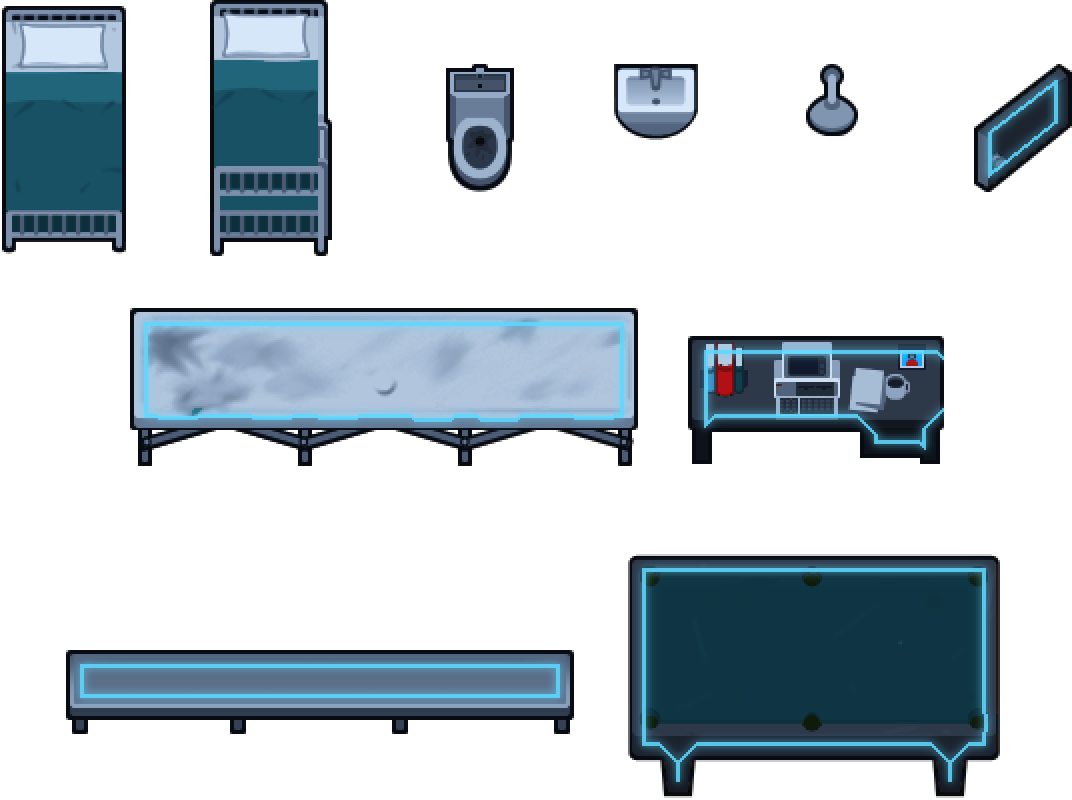
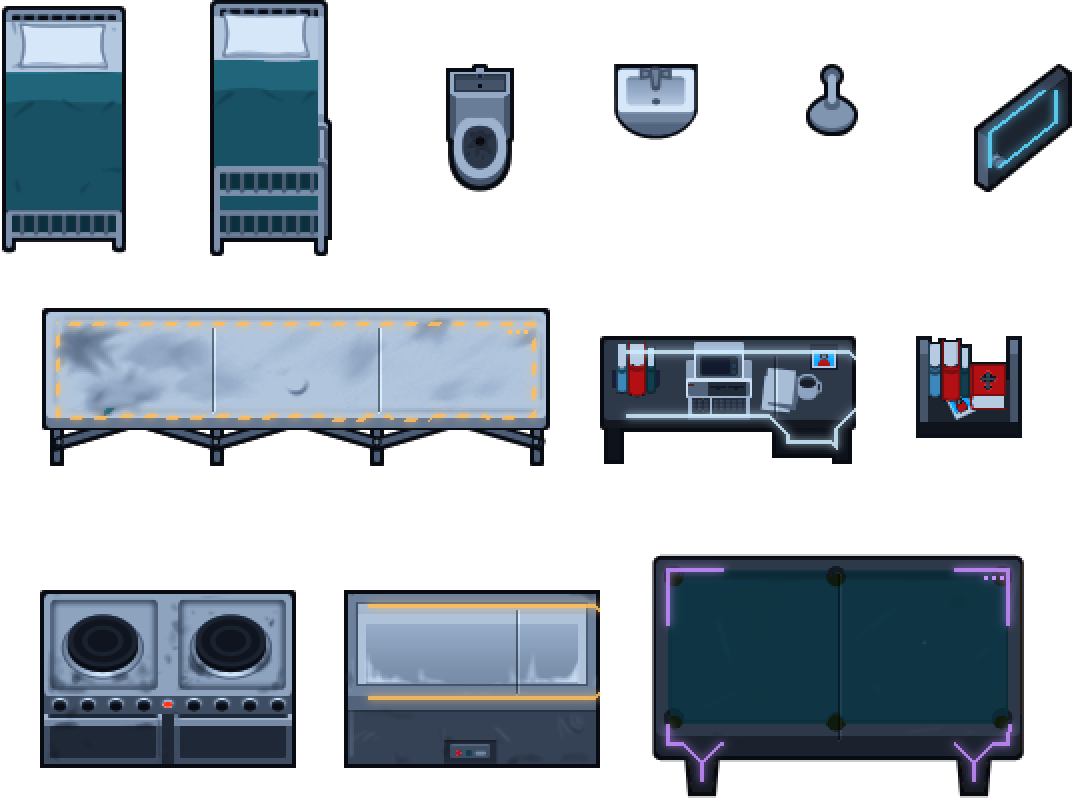
Colour the trim by what an object is for, vary its cut, and add plate seams and status lights

Changed region(s): [[0.0308, 0.6875, 0.9543, 1.0], [0.0308, 0.375, 0.9543, 0.5938], [0.9543, 0.0938, 1.0, 0.125]]

diff --git a/tools/skin.py b/tools/skin.py
@@ -10,8 +10,13 @@ a near-black outline, so a pixel's hue says what it is:
   outlines             blue-black
   reds and blues       kept, pushed toward neon
 
-Panels then get a thin light strip set a little in from their edge, the
-colour of a Laser Door's blue beam, with a soft glow around it.
+Panels then get lit trim a little in from their edge, with a soft glow around
+it. Every object is built from the same three materials, which is what holds
+a room together; what varies is the trim. Its colour says what the object is
+for (ACCENTS), and its cut is one of four (a closed loop, corner brackets, a
+dashed loop, a pair of rails), picked from the object's name so every view of
+one object matches. Big panels are also split by plate seams and carry a
+short row of status lights.
 """
 
 import numpy as np
@@ -19,6 +24,19 @@ from PIL import Image
 from scipy import ndimage as nd
 
 STRIP = np.array([95, 216, 255], float)      # the blue beam of Sci-Fi Security
+
+# Trim colour by what an object is for. All sit at one brightness and one
+# saturation, so a canteen and a cell block read as one prison.
+ACCENTS = {
+    "security": (95, 216, 255),     # doors, cells, cameras: the beam blue
+    "medical": (110, 255, 196),
+    "kitchen": (255, 190, 92),
+    "power": (255, 146, 64),
+    "leisure": (196, 140, 255),
+    "office": (204, 236, 255),
+    "labour": (255, 220, 84),
+}
+ACCENT_ORDER = list(ACCENTS)
 PANEL = [(0.00, (14, 18, 26)), (0.35, (30, 38, 50)), (0.70, (52, 64, 82)), (1.00, (96, 114, 140))]
 CLOTH = [(0.00, (8, 26, 34)), (0.45, (20, 70, 88)), (0.80, (44, 124, 150)), (1.00, (120, 200, 222))]
 STEEL = [(0.00, (8, 11, 18)), (0.30, (36, 46, 62)), (0.65, (86, 104, 130)), (0.88, (150, 172, 200)), (1.00, (214, 232, 250))]
@@ -48,7 +66,10 @@ def hsv(rgb):
     return h * 360, s, mx
 
 
-def reskin(img, mask=None, strips=True, no_strip=None):
+def reskin(img, mask=None, strips=True, no_strip=None, accent=None, style=None):
+    """accent and style are maps the size of the image: an index into
+    ACCENT_ORDER and a trim cut from 0 to 3 for every pixel, or None for the
+    beam blue in a closed loop everywhere."""
     a = np.asarray(img.convert("RGBA")).astype(float)
     rgb, alpha = a[..., :3] / 255, a[..., 3] / 255
     h, s, v = hsv(rgb)
@@ -90,18 +111,72 @@ def reskin(img, mask=None, strips=True, no_strip=None):
             psizes = nd.sum(plate, plab, range(1, pn + 1))
             body |= np.isin(plab, 1 + np.nonzero(psizes >= 3000)[0])
         inner = nd.binary_erosion(body, iterations=5)
-        line = inner & ~nd.binary_erosion(inner, iterations=2)
         blab, bn = nd.label(body)
         if bn:
             sizes = nd.sum(body, blab, range(1, bn + 1))
             big = np.isin(blab, 1 + np.nonzero(sizes >= 1400)[0])
-            line &= big
+        else:
+            big = np.zeros_like(body)
+        inner &= big
+        loop = inner & ~nd.binary_erosion(inner, iterations=2)
+        H, W = body.shape
+        yy, xx = np.mgrid[0:H, 0:W]
+        line = np.zeros_like(body)
+        seam = np.zeros_like(body)
+        leds = np.zeros_like(body)
+        colour = np.zeros((H, W, 3)) + STRIP
+        for lab, box in enumerate(nd.find_objects(blab), 1):
+            if box is None or sizes[lab - 1] < 1400:
+                continue
+            here = np.zeros_like(body)
+            here[box] = blab[box] == lab
+            cy, cx = (box[0].start + box[0].stop) // 2, (box[1].start + box[1].stop) // 2
+            cut = int(style[cy, cx]) if style is not None else 0
+            tint = np.array(ACCENTS[ACCENT_ORDER[int(accent[cy, cx])]], float) if accent is not None else STRIP
+            ring = loop & here
+            y0, y1, x0, x1 = box[0].start, box[0].stop, box[1].start, box[1].stop
+            if cut == 1:        # corner brackets
+                arm = max(6, min(y1 - y0, x1 - x0) // 4)
+                near_x = (xx < x0 + 5 + arm) | (xx >= x1 - 5 - arm)
+                near_y = (yy < y0 + 5 + arm) | (yy >= y1 - 5 - arm)
+                ring &= near_x & near_y
+            elif cut == 2:      # dashed loop
+                ring &= ((xx + yy) // 6) % 2 == 0
+            elif cut == 3:      # a pair of rails along the long side
+                if x1 - x0 >= y1 - y0:
+                    ring &= (xx > x0 + 9) & (xx < x1 - 10)
+                else:
+                    ring &= (yy > y0 + 9) & (yy < y1 - 10)
+            line |= ring
+            colour[here] = tint
+            # plate seams across a long panel, and status lights in a corner
+            core = nd.binary_erosion(here, iterations=8)
+            if sizes[lab - 1] >= 5000:
+                long_x = x1 - x0 >= y1 - y0
+                span = (x1 - x0) if long_x else (y1 - y0)
+                for k in range(1, max(2, span // 72)):
+                    at = (x0 if long_x else y0) + k * span // max(2, span // 72)
+                    seam |= core & ((xx == at) if long_x else (yy == at))
+            if sizes[lab - 1] >= 2600:
+                ys, xs = np.nonzero(core)
+                if len(ys):
+                    ly, lx = ys.min() + 1, xs.max() - 1
+                    for k in range(3):
+                        spot = (yy >= ly) & (yy < ly + 2) & (xx <= lx - k * 4) & (xx > lx - k * 4 - 2) & core
+                        leds |= spot
         if no_strip is not None:
             line &= ~no_strip
-        glow = nd.gaussian_filter(line.astype(float), 2.2) * 1.6
+            leds &= ~no_strip
+            seam &= ~no_strip
+        out[seam] = out[seam] * 0.55
+        lit = np.roll(seam, 1, axis=1) | np.roll(seam, 1, axis=0)
+        lit &= body & ~seam
+        out[lit] = np.clip(out[lit] * 1.18 + 6, 0, 255)
+        glow = nd.gaussian_filter((line | leds).astype(float), 2.2) * 1.6
         glow = np.clip(glow, 0, 1) * solid
-        out = out * (1 - 0.55 * glow[..., None]) + STRIP * 0.55 * glow[..., None]
-        out[line] = STRIP * 0.85 + out[line] * 0.15
+        out = out * (1 - 0.55 * glow[..., None]) + colour * 0.55 * glow[..., None]
+        out[line] = colour[line] * 0.85 + out[line] * 0.15
+        out[leds] = colour[leds] * 0.95 + 12
 
     res = np.dstack([np.clip(out, 0, 255), a[..., 3]])
     if mask is not None:

diff --git a/tools/gen_assets.py b/tools/gen_assets.py
@@ -46,6 +46,47 @@ NO_STRIP = re.compile(r"^(d_)?(JailDoor|JailBars|SolitaryDoor|RoadGate|RoadBarri
 # Cells of the main sheet that hold signs no sprite bank names.
 KEEP_CELLS = {"objects.png": ((35, 0, 4, 14), (0, 2, 2, 2))}
 
+# What an object is for, by its name, which picks the colour of its trim.
+# First match wins; anything unmatched is security, the beam blue.
+PURPOSE = (
+    ("medical", r"Medical|Morgue|Doctor|Nurse|Psych|Pharma|Infirm|Surgery|Defib|Methadone"),
+    ("leisure", r"Pool|Tv|TV|Weights|Book|Radio|Sofa|Arcade|Game|Gym|Piano|Guitar|Altar|Prayer|Pew|Phone|Play|Swing|Yoga|Punch"),
+    ("kitchen", r"Cooker|Fridge|Sink|Serving|^Table|^Bench|Tray|Kitchen|Canteen|Dish|Oven|Freezer|Vending|Drink"),
+    ("power", r"Power|Generator|Capacitor|Water|Pump|Pipe|Boiler|Switch|Cable|Electric|Light|Sprinkler|Valve|Solar|Wind|Batter"),
+    ("office", r"Desk|Filing|Office|Computer|School|Visitor|Chair|Shop|Till|Mail|Parole|Court|Lectern|Whiteboard"),
+    ("labour", r"Workshop|Saw|Press|Carpenter|Laundry|Ironing|Cleaning|Garden|Farm|Forestry|Recycl|Loom|Sewing|Basket|Crate|Pallet|Truck"),
+)
+PURPOSE = tuple((skin.ACCENT_ORDER.index(k), re.compile(v)) for k, v in PURPOSE)
+
+
+def trim_maps(size, bank):
+    """For every pixel, the purpose and the trim cut of the sprite it belongs
+    to. A sprite's other views sit to its right on the sheet, so each sprite
+    claims the ground to its right as far as the next named sprite."""
+    import zlib
+    accent = np.zeros((size[1], size[0]), np.uint8)
+    style = np.zeros((size[1], size[0]), np.uint8)
+    bare = np.zeros((size[1], size[0]), np.uint8)
+    taken = np.zeros((size[1], size[0]), bool)
+    found = [s for s in sprites(bank) if s[1] * CELL < size[0] and s[2] * CELL < size[1]]
+    for name, x, y, w, h, _ in found:
+        taken[y * CELL:(y + h) * CELL, x * CELL:(x + w) * CELL] = True
+    for name, x, y, w, h, _ in found:
+        base = re.sub(r"^(d_)?", "", name)
+        purpose = next((i for i, rx in PURPOSE if rx.search(base)), 0)
+        cut = zlib.crc32(base.encode()) % 4
+        x0, x1, y0, y1 = x * CELL, (x + w) * CELL, y * CELL, (y + max(w, h)) * CELL
+        reach = min(size[0], x1 + 4 * max(w, h) * CELL)
+        free = ~taken[y0:(y + h) * CELL, x1:reach]
+        # stop at the first column another named sprite owns
+        blocked = np.nonzero(~free.all(axis=0))[0]
+        stop = x1 + (blocked[0] if len(blocked) else reach - x1)
+        for m, v in ((accent, purpose), (style, cut), (bare, 1 if NO_STRIP.match(name) else 0)):
+            m[y0:(y + h) * CELL, x0:x1] = v
+            m[y0:y1, x1:stop] = v
+    return accent, style, bare.astype(bool)
+
+
 # Who and what the 3D re-skin leaves alone, by the name of the shape.
 KEEP_SHAPES = re.compile(
     r"^(armedGuard|chef|chief|doctor|dogHandler|fireman|foreman|gardener|guard|guardDog|janitor|paramedic|priest"
@@ -111,8 +152,8 @@ def shape_masks(shapes_dir, size):
 
 # What the Workshop card shows, as rows of sprites from the main sheet.
 CARD_ROWS = (("Bed", "BunkBed", "Toilet", "Sink", "ShowerHead", "Door"),
-             ("Table", "OfficeDesk"),
-             ("Bench", "PoolTable"))
+             ("Table", "OfficeDesk", "Bookshelf"),
+             ("Cooker", "Fridge", "PoolTable"))
 
 
 def card_art(sheet, bank):
@@ -149,8 +190,8 @@ def main():
     for sheet, bank in SHEETS:
         img = Image.open(os.path.join(game, sheet)).convert("RGBA")
         keep = named_mask(img.size, os.path.join(game, bank), KEEP, KEEP_CELLS.get(sheet, ()))
-        bare = named_mask(img.size, os.path.join(game, bank), NO_STRIP)
-        done = skin.reskin(img, mask=~keep, no_strip=bare)
+        accent, style, bare = trim_maps(img.size, os.path.join(game, bank))
+        done = skin.reskin(img, mask=~keep, no_strip=bare, accent=accent, style=style)
         done.save(os.path.join(out, sheet), optimize=True)
         if sheet == "objects.png":
             card_art(done, os.path.join(game, bank)).save(os.path.join(ROOT, "tools", "card-art.png"), optimize=True)

diff --git a/README.md b/README.md
@@ -15,7 +15,24 @@ object, price, room or rule is touched.
 | Outlines | Blue-black |
 | Reds and blues already on an object | Kept, pushed toward neon |
 
-The light strip is the blue of a Laser Door's beam. Bars, mesh and pipes change
+Every object is built from the same three materials, which is what holds a room
+together. What varies is the lit trim. Its colour says what the object is for:
+
+| Trim | Objects |
+| :--- | :--- |
+| Beam blue | Doors, cells, cameras and anything else not listed |
+| Green | Medical beds, the morgue, the infirmary |
+| Amber | Cookers, fridges, sinks, serving and canteen tables |
+| Orange | Power, water and the rest of the utilities |
+| Violet | Pool tables, televisions, weights, bookshelves, phones |
+| Ice white | Desks, filing cabinets, chairs, visitor tables |
+| Yellow | Workshop, laundry, cleaning and farm equipment |
+
+Its cut is one of four, a closed loop, corner brackets, a dashed loop or a pair
+of rails, picked from the object's name so every view of one object matches. Big
+panels are also split by plate seams and carry a short row of status lights.
+
+The beam blue is the blue of a Laser Door's beam. Bars, mesh and pipes change
 colour but carry no strip, because there is no flat panel for one to sit on.
 
 People, animals, plants, food, fire, contraband, uniforms and the signs the game
